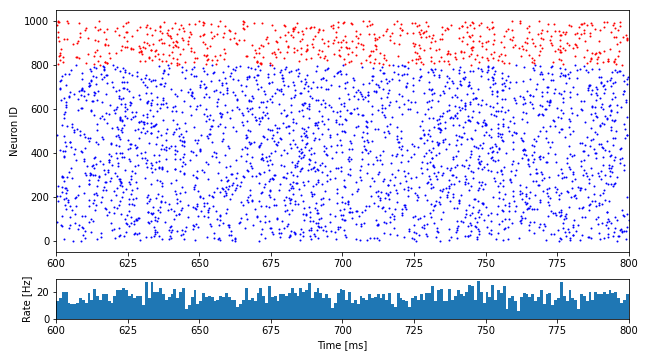
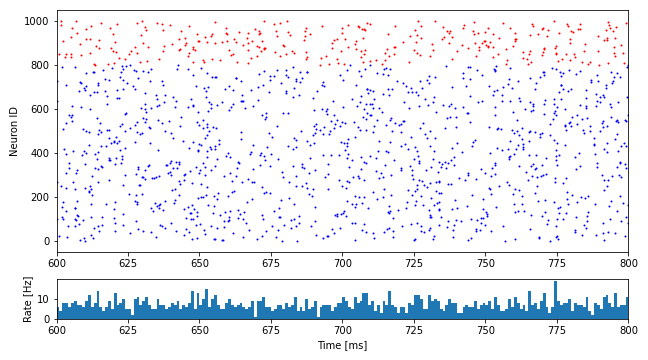
tweaks and enabled setting multiple neuron parameters

diff --git a/simulation/run.py b/simulation/run.py
@@ -2,9 +2,8 @@
 import numpy as np
 import matplotlib.pyplot as plt
 import nest
-from new_functions import Network, raster, rate, approximate_lfp_timecourse
-#import icsd
-
+from functions import Network, raster, rate, approximate_lfp_timecourse
+import elephant
 
 ## Set nest variables
 nest.ResetKernel()
@@ -62,6 +61,67 @@ neuron_params={
     "adapting_threshold": False
 }
 
+np2 = {
+    "V_m": -78.0417277018229,
+    "V_th": -49.63934810542196,
+    "g": 3.4780284104908676,
+    "E_L": -79.0417277018229,
+    "C_m": 60.72689987399939,
+    "t_ref": 1.4500000000000002,
+    "V_reset": -79.0417277018229,
+    "asc_init": [
+        0.0,
+        0.0
+    ],
+    "asc_decay": [
+        0.029999999999999992,
+        0.3
+    ],
+    "asc_amps": [
+        -23.825265478178427,
+        -292.06473034028727
+    ],
+    "tau_syn": [
+        5.5,
+        8.5,
+        2.8,
+        5.8
+    ],
+    "spike_dependent_threshold": False,
+    "after_spike_currents": True,
+    "adapting_threshold": False
+}
+
+np3={
+    "V_m": -79.0417277018229,
+    "V_th": -49.63934810542196,
+    "g": 4.4780284104908676,
+    "E_L": -79.0417277018229,
+    "C_m": 60.72689987399939,
+    "t_ref": 1.4500000000000002,
+    "V_reset": -79.0417277018229,
+    "asc_init": [
+        0.0,
+        0.0
+    ],
+    "asc_decay": [
+        0.029999999999999992,
+        0.3
+    ],
+    "asc_amps": [
+        -23.825265478178427,
+        -292.06473034028727
+    ],
+    "tau_syn": [
+        5.5,
+        8.5,
+        2.8,
+        5.8
+    ],
+    "spike_dependent_threshold": False,
+    "after_spike_currents": True,
+    "adapting_threshold": False
+}
 ################################
 ## Specify synapse properties ##
 ################################
@@ -75,7 +135,7 @@ nest.CopyModel("static_synapse", "inhibitory",
                {"weight": params['J']*-params['g'], "delay": delay, "receptor_type": 2})
 
 
-ext_rate = 1000*8
+ext_rate = 900*8
 
 ########################
 ## Create the network ##
@@ -90,8 +150,8 @@ pos_in = nest.spatial.free(nest.random.normal(mean=0., std=1.),
                         num_dimensions=3)
 
 ## Add populations to the network
-network.addpop('glif_psc', params['N'][0], neuron_params, pos_ex, record_from_pop=True, nrec=800)
-network.addpop('glif_psc', params['N'][1], neuron_params, pos_in, record_from_pop=True, nrec=200)
+network.addpop('glif_psc', params['N'][0], [neuron_params, np2, np3], pos_ex, nrec=800)
+network.addpop('glif_psc', params['N'][1], [neuron_params, np2, np3], pos_in, nrec=200)
 
 # add stimulation
 network.add_stimulation(source={'type': 'poisson_generator', 'rate': ext_rate}, target=0) # to excitatory population
@@ -135,8 +195,4 @@ plt.show()
 ## plot the timecourse in the recorded time window
 plt.plot(np.unique(mmdata[0]["times"]), lfp_tc)
 plt.show
-
-
-
-#meow = icsd.StandardCSD([lfp_tc, ])
 

diff --git a/simulation/functions.py b/simulation/functions.py
@@ -3,6 +3,7 @@ from matplotlib import pyplot as plt
 import numpy as np
 import nest
 import itertools
+import random
 
 ## 
 # Create classes
@@ -28,8 +29,8 @@ class Network:
             The neuron model name
         num_neurons : int
             number of neurons in the specified population
-        neuron_params : dictionary
-            parameters for the population
+        neuron_params : dictionary or list of dictionaries
+            parameters for the population. Randomly sampled for each neuron if list.
         neuron_positions : nest spatial data
             nest spatial data
         record_from_pop : boolean, optional
@@ -42,6 +43,12 @@ class Network:
         None.
 
         """
+        
+        ## If we get a list with parameter dictionaries sample randomly from them until we have
+        ## a list of the size of num_neurons. Nest only accepts one dictionary for all
+        ## or a list of dictionaries with size equal to the size of the population.
+        if not isinstance(neuron_params, dict):
+            neuron_params = random.choices(neuron_params, k=num_neurons)
         
         ## Create the neuronal population
         newpop = nest.Create(neuron_type, num_neurons, neuron_params, positions=neuron_positions)
